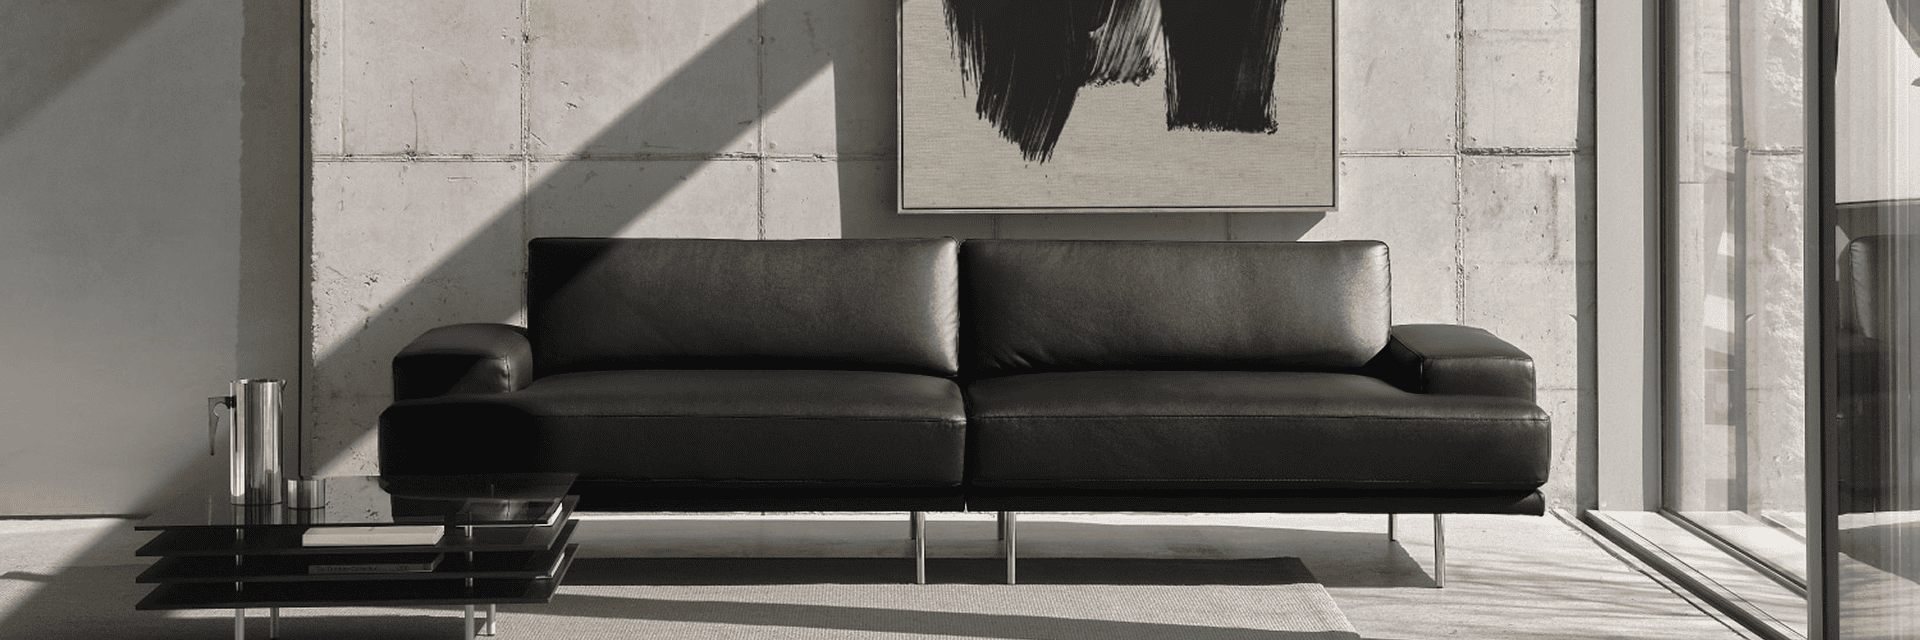
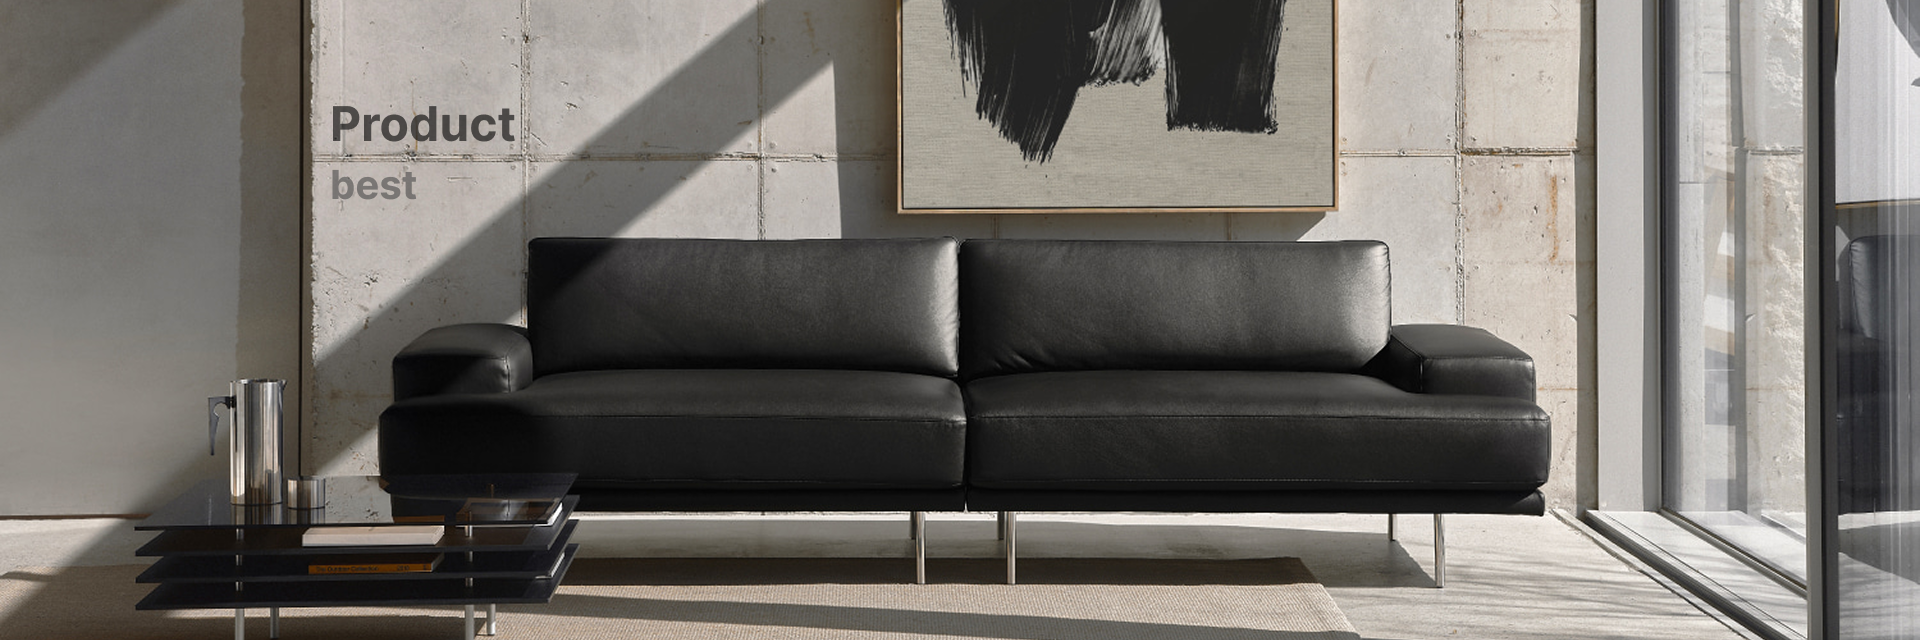
프로덕트페이지 완 (반응형 x)

diff --git a/PRODUCT.html b/PRODUCT.html
@@ -12,7 +12,7 @@
     <link rel="stylesheet" href="./css/font.css">
     <link rel="stylesheet" href="./css/fontello.css">
     <link rel="stylesheet" href="./css/style-PRODUCT.css">
-    <link rel="stylesheet" href="./css/respond.css">
+    <link rel="stylesheet" href="./css/respond-PRODUCT.css">
 </head>
 
 <body>
@@ -127,7 +127,212 @@
     </header>
     <!-- 2. main -->
     <main>
-
+        <div class="mine-vanner">
+            <div class="img-box">
+                <div><img src="./images/02.PRODUCT/product_vanner.png" alt=""></div>
+            </div>
+        </div>
+        <div class="inner">
+            <div class="Product-list-wrap">
+                <ul>
+                    <li><a href="#">추천순</a></li>
+                    <li><a href="#">판매인기순</a></li>
+                    <li><a href="#">낮은가격순</a></li>
+                    <li><a href="#">높은가격순</a></li>
+                    <li><a href="#">등록일순</a></li>
+                </ul>
+            </div>
+            <div class="Product-goods-list">
+                <div class="list1">
+                    <ul>
+                        <li>
+                            <div>
+                                <a href="#"><img src="./images/02.PRODUCT/product_goods1.png" alt=""></a>
+                            </div>
+                            <div class="goods-list">
+                                <div class="goods-left">
+                                    <span class="goods-name">Linear Sofa / Mix</span>
+                                    <div>
+                                        <div class="goods-price">
+                                            <span class="price">2,240,000원</span>
+                                            <span class="sale"></span>
+                                        </div>
+                                        <div class="goods-right">
+                                            <p></p>
+                                        </div>
+                                    </div>
+                                </div>
+                            </div>
+                        </li>
+                        <li>
+                            <div>
+                                <a href="#"><img src="./images/02.PRODUCT/product_goods2.png" alt=""></a>
+                            </div>
+                            <div class="goods-list">
+                                <div class="goods-left">
+                                    <span class="goods-name">Multi Sofa / Fabric</span>
+                                    <div>
+                                        <div class="goods-price">
+                                            <span class="price">2,030,000원</span>
+                                            <span class="sale">2,480,000원</span>
+                                        </div>
+                                        <div class="goods-right">
+                                            <p>20%</p>
+                                        </div>
+                                    </div>
+                                </div>
+                            </div>
+                        </li>
+                        <li>
+                            <div>
+                                <a href="#"><img src="./images/02.PRODUCT/product_goods3.png" alt=""></a>
+                            </div>
+                            <div class="goods-list">
+                                <div class="goods-left">
+                                    <span class="goods-name">Linear Sofa / Mix</span>
+                                    <div>
+                                        <div class="goods-price">
+                                            <span class="price">2,240,000원</span>
+                                            <span class="sale">2,480,000원</span>
+                                        </div>
+                                        <div class="goods-right">
+                                            <p>10%</p>
+                                        </div>
+                                    </div>
+                                </div>
+                            </div>
+                        </li>
+                    </ul>
+                </div>
+                <div class="list2">
+                    <ul>
+                        <li>
+                            <div>
+                                <a href="#"><img src="./images/02.PRODUCT/product_goods4.png" alt=""></a>
+                            </div>
+                            <div class="goods-list">
+                                <div class="goods-left">
+                                    <span class="goods-name">Linear Sofa / Mix</span>
+                                    <div>
+                                        <div class="goods-price">
+                                            <span class="price">2,240,000원</span>
+                                            <span class="sale">2,480,000원</span>
+                                        </div>
+                                        <div class="goods-right">
+                                            <p>10%</p>
+                                        </div>
+                                    </div>
+                                </div>
+                            </div>
+                        </li>
+                        <li>
+                            <div>
+                                <a href="#"><img src="./images/02.PRODUCT/product_goods5.png" alt=""></a>
+                            </div>
+                            <div class="goods-list">
+                                <div class="goods-left">
+                                    <span class="goods-name">Linear Sofa / Mix</span>
+                                    <div>
+                                        <div class="goods-price">
+                                            <span class="price">2,240,000원</span>
+                                            <span class="sale"></span>
+                                        </div>
+                                        <div class="goods-right">
+                                            <p></p>
+                                        </div>
+                                    </div>
+                                </div>
+                            </div>
+                        </li>
+                        <li>
+                            <div>
+                                <a href="#"><img src="./images/02.PRODUCT/product_goods6.png" alt=""></a>
+                            </div>
+                            <div class="goods-list">
+                                <div class="goods-left">
+                                    <span class="goods-name">Linear Sofa / Mix</span>
+                                    <div>
+                                        <div class="goods-price">
+                                            <span class="price">2,240,000원</span>
+                                            <span class="sale">2,480,000원</span>
+                                        </div>
+                                        <div class="goods-right">
+                                            <p>10%</p>
+                                        </div>
+                                    </div>
+                                </div>
+                            </div>
+                        </li>
+                    </ul>
+                </div>
+                <div class="list3">
+                    <ul>
+                        <li>
+                            <div>
+                                <a href="#"><img src="./images/02.PRODUCT/product_goods7.png" alt=""></a>
+                            </div>
+                            <div class="goods-list">
+                                <div class="goods-left">
+                                    <span class="goods-name">Linear Sofa / Mix</span>
+                                    <div>
+                                        <div class="goods-price">
+                                            <span class="price">2,240,000원</span>
+                                            <span class="sale">2,480,000원</span>
+                                        </div>
+                                        <div class="goods-right">
+                                            <p>10%</p>
+                                        </div>
+                                    </div>
+                                </div>
+                            </div>
+                        </li>
+                        <li>
+                            <div>
+                                <a href="#"><img src="./images/02.PRODUCT/product_goods8.png" alt=""></a>
+                            </div>
+                            <div class="goods-list">
+                                <div class="goods-left">
+                                    <span class="goods-name">Linear Sofa / Mix</span>
+                                    <div>
+                                        <div class="goods-price">
+                                            <span class="price">2,240,000원</span>
+                                            <span class="sale"></span>
+                                        </div>
+                                        <div class="goods-right">
+                                            <p></p>
+                                        </div>
+                                    </div>
+                                </div>
+                            </div>
+                        </li>
+                        <li>
+                            <div>
+                                <a href="#"><img src="./images/02.PRODUCT/product_goods9.png" alt=""></a>
+                            </div>
+                            <div class="goods-list">
+                                <div class="goods-left">
+                                    <span class="goods-name">Linear Sofa / Mix</span>
+                                    <div>
+                                        <div class="goods-price">
+                                            <span class="price">2,240,000원</span>
+                                            <span class="sale">2,480,000원</span>
+                                        </div>
+                                        <div class="goods-right">
+                                            <p>10%</p>
+                                        </div>
+                                    </div>
+                                </div>
+                            </div>
+                        </li>
+                    </ul>
+                </div>
+            </div>
+            <div class="page-list">
+                <p>1</p>
+                <p>2</p>
+                <p>3</p>
+            </div>
+        </div>
     </main>
     <!-- 2. footer -->
     <footer>

diff --git a/css/style-PRODUCT.css b/css/style-PRODUCT.css
@@ -12,7 +12,7 @@
 
 /* 숨기기 */
 .m-header,
-.ham{
+.ham {
     display: none;
 }
 
@@ -38,7 +38,7 @@ header {
     top: 0;
     left: 0;
     z-index: 1000;
-    /* background-color: #111; */
+    background-color: #111;
     transition: background-color 0.3s ease, border-color 0.3s ease;
 }
 
@@ -261,7 +261,85 @@ header:has(.main-menu > li:hover .sub-list)::after {
 .gnb-list>li:focus-within .user-list {
     display: block;
 }
+
 /* ==================================== main ==================================== */
+.mine-vanner {
+    padding: 178px 0 87px;
+}
+
+.Product-list-wrap>ul {
+    display: flex;
+    padding: 15px 0;
+    gap: 30px;
+    font-size: 20px;
+    color: rgba(0, 0, 0, 0.40);
+}
+
+.Product-list-wrap>ul>li:first-child {
+    font-weight: 700;
+    color: #000000;
+}
+
+.Product-goods-list {
+    padding-top: 37px;
+    display: flex;
+    flex-direction: column;
+    gap: 30px;
+}
+
+.Product-goods-list img{
+    width: 797px;
+}
+
+.Product-goods-list ul {
+    display: flex;
+    justify-content: space-between;
+    gap: 30px;
+}
+
+.Product-goods-list .goods-left {
+    padding: 30px 20px 0;
+}
+
+.Product-goods-list .goods-left>.goods-name{
+    font-size: 20px;
+}
+.Product-goods-list .goods-left>div>.goods-right{
+    font-weight: 700;
+    color: #FF5252;
+}
+.Product-goods-list .goods-left>div {
+    display: flex;
+    justify-content: space-between;
+    font-weight: 300;
+    padding-top: 5px;
+}
+
+.Product-goods-list .goods-left .goods-price {
+    display: flex;
+}
+
+.sale{
+    padding-left: 7px;
+    text-decoration: line-through;
+    color: #A7A7A7;
+}
+
+
+.page-list {
+    display: flex;
+    justify-content: center;
+    gap: 37px;
+    padding: 110px 0;
+    font-size: 24px;
+    font-weight: 600;
+}
+
+.page-list>p:nth-child(2),
+.page-list>p:nth-child(3) {
+    font-weight: 400;
+    color: rgba(0, 0, 0, 0.45);
+}
 
 /* ==================================== footer ==================================== */
 footer {
@@ -362,4 +440,3 @@ footer {
 .footer-inner .sub-link-list a:hover {
     color: #ffffff;
 }
-

diff --git a/css/respond-PRODUCT.css b/css/respond-PRODUCT.css
@@ -59,7 +59,7 @@
         top: 0;
         background: #111;
         height: 100vh;
-        /* display: none; */
+        display: none;
     }
 
     .main-menu {
